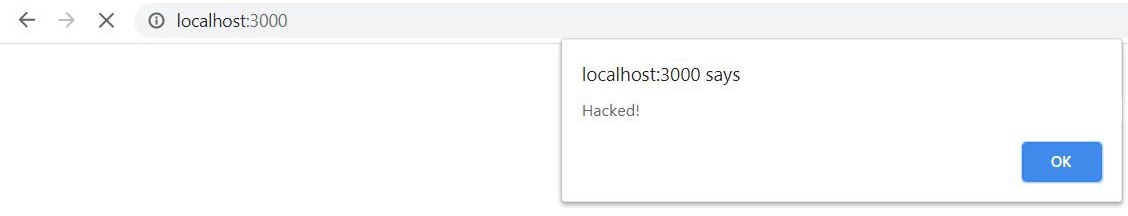
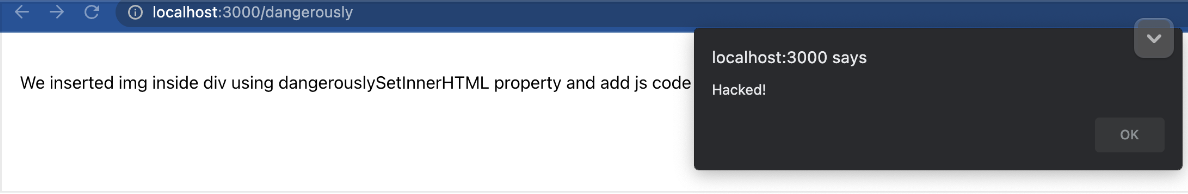
Updated article and images

diff --git a/source/_posts/react-xss.md b/source/_posts/react-xss.md
@@ -7,182 +7,170 @@ date: 2022-07-08
 tags: [React, Security]
 id: react-xss
 relatedPost: angular-xss
-published: false
+published: true
 ---
 {% image_fw 1.78 "banner.png" "Preventing XSS in React" %}
 
-Cross-site scripting (XSS) attacks are a type of attack in which malicious code is injected into a web page and then executed. The malicious code can steal cookies, modify the content or take total control of the entire website.
+XSS attacks or Cross site scripting are a type of attacks in which malicious code is injected into a web page and then executed.
+This malicious code can steal your cookies, modify the content or take control of entire webpage.
 
 <!-- toc -->
 
-## Types of XSS attacks
-
-* Reflected XSS attacks
-* Stored XSS attacks
+The content of this article:
+* Attacks
 * DOM-based XSS attacks
+  * eval
+  * href
+  * dangerouslySetHTML
+* Simple protection from xss attacks
+* React xss protection
+* Summary
 
-For years, most people thought of these (Stored, Reflected, DOM) as three different types of XSS, but in reality, they overlap. You can have both Stored and Reflected DOM-Based XSS. You can also have Stored and Reflected Non-DOM Based XSS too, but that's confusing, so to help clarify things, starting about mid-2012, the research community proposed and started using two new terms to help organize the types of XSS that can occur:
+## Attacks
+Starting about mid 2012, the research community started using two new terms to help organize the types of XSS.
+Types of XSS attacks since mid 2012:
 
-* Server XSS
-* Client XSS
+{% img "xss-division.png" "XSS division" "lazy" %}
 
-{% img "xss-types.png" "Server XSS vs Client XSS" "lazy" %}
+## DOM-based XSS attacks in React
+These attacks belongs to the subset of Client cross site scripting as the data source is from the client side only.
 
-## DOM-Bassed XSS
+{% img "client-division.png" "Client division" "lazy" %}
 
-In this article, we'll focus on the **DOM-Bassed XSS attack.**
+I will show you three examples of DOM-based xss attack in this article.
+We will look at eval, href and dangerouslySetHTML vulnerabilities.
 
-I will demonstrate three XSS vulnerabilities that can occur in React: 1) `eval`, 2) `href`, and 3) `dangerouslySetHTML`.
+### eval
 
-### eval() vulnerability
-
-The eval function evaluates strings as JavaScript. Therefore, if the attacker injects javascript code into `eval()`, your app would run the attacker's script.
-
-{% img "eval.png" "eval XSS vulnerability" "lazy" %}
+The eval() function evaluates a string and returns its completion value.
+The issue of the eval function is that you can paste malicious javascript code inside and execute it.
+Let’s make an example, here is a code snippet in jsx code
 
 ``` javascript Code snippet
-import React, { useState } from 'react';const Eval = () => {
-  const [data, setData] = useState({
-    firstName: '',
-    lastName: '',
-  });
-  
-  const handleType = (e) => {
-    setData({
-      ...data,
-      [e.target.name]: e.target.value,
-    });
-  };
-  
-  const handleSubmit = () => {
-    eval(data.firstName + data.lastName);
-  };
-  
-  return (
-    <div>
-      <input
-        type='text'
-        name='firstName'
-        value={data.firstName}
-        onChange={(e) => handleType(e)}
-      />
-      <input
-        type='text'
-        name='lastName'
-        value={data.lastName}
-        onChange={(e) => handleType(e)}
-      />
-      <button onClick={() => handleSubmit()}>Submit</button>{' '}
-    </div>
-  );
+import React, { useState } from 'react';
+
+const Eval = () => {
+    const [data, setData] = useState();
+
+    const handleType = (e) => {
+        setData(e.target.value);
+    };
+
+    const handleSubmit = () => {
+        eval(data);
+    };
+
+    return (
+        <div>
+            <p>Place this code inside input: <code>alert('Hacked')</code></p>
+            <input
+                type='text'
+                name='firstName'
+                value={data}
+                onChange={(e) => handleType(e)}
+            />
+            <button onClick={() => handleSubmit()} className="button">Submit</button>{' '}
+        </div>
+    );
 };
 
 export default Eval;
 ```
+And below is a result of the code snippet
 
-### href vulnerability
+{% img "eval.png" "eval XSS vulnerability" "lazy" %}
 
-In the component below, we ask the user to embed user input. We set the href dynamically in the \<a\> tag to the user's provided link. See bold below. Instead of providing a link, the attacker inputs `javascript: alert('Hacked!')` so that when someone clicks on the link, the `alert()` will be executed.
+In example we use user's browser and a user input to execute a simple alert function and in real life the attacker can use another javascript malicious code to make something terrible with your webpage, cookies.
 
-{% img "href.png" "href XSS vulnerability" "lazy" %}
+### href
+
+href is an attribute of a element.
+The <a> element defines a hyperlink, which is used to link from one page to another.
+
+As an example we can embed user input inside a href and this is an issue.
+You can see in code snippet below, we use data variable to fill href attribute and data fills with input element.
 
 ``` javascript Code snippet
 import React, { useState } from 'react';
+
 const Href = () => {
-  const [data, setData] = useState({
-    text: '',
-  });
-const handleType = (e) => {
-    setData({
-      ...data,
-      [e.target.name]: e.target.value,
-    });
-  };
-return (
-    <div>
-      <input
-        type='text'
-        name='text'
-        value={data.text}
-        onChange={(e) => handleType(e)}
-      />
-      <a href={data.text}>click Here</a>
-    </div>
-  );
+    const [data, setData] = useState();
+    const handleType = (e) => {
+        setData(e.target.value);
+    };
+
+    return (
+        <div>
+            <p>Place this code inside input: <code>javascript: alert('Hacked');</code></p>
+            <input
+                type='text'
+                name='text'
+                value={data}
+                onChange={(e) => handleType(e)}
+            />
+            <a href={data} className="button">Click Here</a>
+        </div>
+    );
 };
 
 export default Href;
 ```
+Execution of code:
 
-### dangerouslySetHTML vulnerability
+{% img "href.png" "href XSS vulnerability" "lazy" %}
 
-The name says it all. Each HTML element in JSX code has a dangerouslySetHTML property. You can pass HTML into this property as a string and the HTML will be rendered in the DOM.
+### dangerouslySetHTML
 
-{% img "dangerouslySetHTML.png" "dangerouslySetHTML XSS vulnerability" "lazy" %}
+This is a property in html code that you can use HTML elements in react code instead of innerHTML function.
+The content of **dangerouslySetHTML** is dynamic and skips the comparison against the virtual DOM. As you can understand it is the third xss vulnerability.
+Below is a code and result of execution
 
 ``` javascript Code snippet
 import React from 'react';
+
 const DangerouslySetInnerHTML = () => {
-  const createMarkup = () => {
-    return {
-      __html: "<img onerror='alert(\"Hacked!\");' src='invalid-image' />",
+    const placeHtml = () => {
+        return {
+             __html: "<img onerror='alert(\"Hacked!\");' src='invalid-image' />",
+        };
     };
-  };
-return (
-    <div>
-      <div dangerouslySetInnerHTML={createMarkup()} />
-    </div>
-  );
+
+    return (
+        <div>
+            <p>We inserted img inside div using dangerouslySetInnerHTML property and add js code in onerror attribute</p>
+            <div dangerouslySetInnerHTML={placeHtml()} /></div>
+    );
 };
 
 export default DangerouslySetInnerHTML;
 ```
+Result of render:
 
-## How can we prevent these attacks
+{% img "dangerouslySetHTML.png" "dangerouslySetHTML XSS vulnerability" "lazy" %}
 
-You can escape (replace) reserved characters (such as `<` and `>`) with their respective character entities (`&lt;` and `&gt;`). Therefore, when the code is rendered, no JavaScript can be executed. Instead, the character entities will be converted to their respective reserve characters.
+## Simple protection from xss attacks
 
-Also, you can "sanitize" user inputs using a library called `dompurify`: [https://github.com/cure53/DOMPurify](https://github.com/cure53/DOMPurify)
+You can replace reserved characters (such as < and >) with their respective character entities (&lt; and &gt;).
+As a result, the code is rendered, no JavaScript code can't be executed, and character entities will be converted to their respective reserve characters.
+Also, you can use “sanitize” user inputs using a library called dompurify: [https://github.com/cure53/DOMPurify](https://github.com/cure53/DOMPurify)
 
-**XSS Protection in React:** React is a JavaScript library for building user interfaces, and as such, it has some built-in security measures to prevent xss in react.
+## React xss protection
 
-When we create new elements using the React API, React will automatically review data to auto-escape scripting code. Below is a code snippet of React's createElement() method.
-
-``` javascript
-return React.createElement("p", {}, review); 
-```
-
-As you can see before input is used very often for such attacks. That's why in React documentation we have articles about controlled and uncontrolled components.
-
-In React, Controlled Components are those in which form's data is handled by the component's state. It takes its current value through props and makes changes through callbacks like onClick,onChange, etc. A parent component manages its own state and passes the new values as props to the controlled component.
-
+As you can see the most vulnerable place is input and we have article about controlled and uncontrolled components in React documentation.
 Below you can read a blockquote from the React official documentation:
+> In the form elements are either the typed ones like textarea. input or the selected one like radio buttons or checkboxes, whenever there is any change, made it is updated accordingly through some functions that update the state as well. 
+We recommend using controlled components to implement forms. In a controlled component, form data is handled by a React component. 
+In HTML, form elements such as \<input\>, \<textarea\>, and \<select\> typically maintain their own state and update it based on user input. In React, mutable state is typically kept in the state property of components, and only updated with setState(). 
+The alternative is uncontrolled components, where form data is handled by the DOM itself.
+To write an uncontrolled component, instead of writing an event handler for every state update, you can use a ref (createRef) to get form values from the DOM.
 
-> In the form elements are either the typed ones like textarea. input or the selected one like radio buttons or checkboxes, whenever there is any change, made it is updated accordingly through some functions that update the state as well. We recommend using controlled components to implement forms. In a controlled component, form data is handled by a React component. In HTML, form elements such as \<input\>, \<textarea\>, and \<select\> typically maintain their own state and update it based on user input. In React, mutable state is typically kept in the state property of components, and only updated with setState(). The alternative is uncontrolled components, where form data is handled by the DOM itself. To write an uncontrolled component, instead of writing an event handler for every state update, you can use a ref (createRef) to get form values from the DOM.
+## Summary
 
-Also, as you can see previously one of the XSS attacks works with DOM directly throw accessing its content.
+Protecting your React application to prevent cross site scripting is not a one-step process. The best way to protect React applications from XSS attacks is to prevent them earlier in your codebase. You can create a list of recommendations for your teammates.
 
-We have an article about work in DOM in React code. We need to use Refs in React documentation and it says: Refs provide a way to access DOM nodes or React elements created in the render method. Something else about refs from React documentation:
-
-## When to use Refs
-
-There are a few good use cases for refs:
-
-* Managing focus, text selection, or media playback.
-* Triggering imperative animations.
-* Integrating with third-party DOM libraries.
-
-> Avoid using refs for anything that can be done declaratively.
-
-Protecting your React application to prevent cross-site scripting is not a one-step process. The best way to safeguard your React application against XSS attacks is to anticipate them early in your codebase. You can then define a set of rules or coding guidelines for your application.
-
-Here's how you can prevent XSS in your application:
-
-1. Validate all data that flows into your application from the server or a third-party API. This cushions your application against an XSS attack, and at times, you may be able to prevent it, as well.
-2. Don't mutate DOM directly. If you need to render different content, use `innerText` instead of `innerHTML`. Be extremely cautious when using escape hatches like `findDOMNode` or `createRef` in React.
-3. Always try to render data through JSX and let React handle the security concerns for you.
-4. Use `dangerouslySetInnerHTML` in only specific use cases. When using it, make sure you're sanitizing all your data before rendering it on the DOM.
-5. Avoid writing your own sanitization techniques. It's a separate subject on its own that requires some expertise.
-6. Use good libraries for sanitizing your data. There are a number of them, but you must compare the pros and cons of each specific to your use case before going forward with one.
-
-You can use the above points as a coding guideline when building React applications.
+Here is my list:
+1. Use dangerouslySetHTML and createRef in very specific use cases.
+2. Don't mutate DOM directly as we can make it with React.
+3. Use React functionality instead of writing personal techniques. READ documentation.
+4. Validate all data that you have and income data (from user and from API)
+5. Don't create your personal sanitization libraries, select the best among other libraries from trusted developers.
